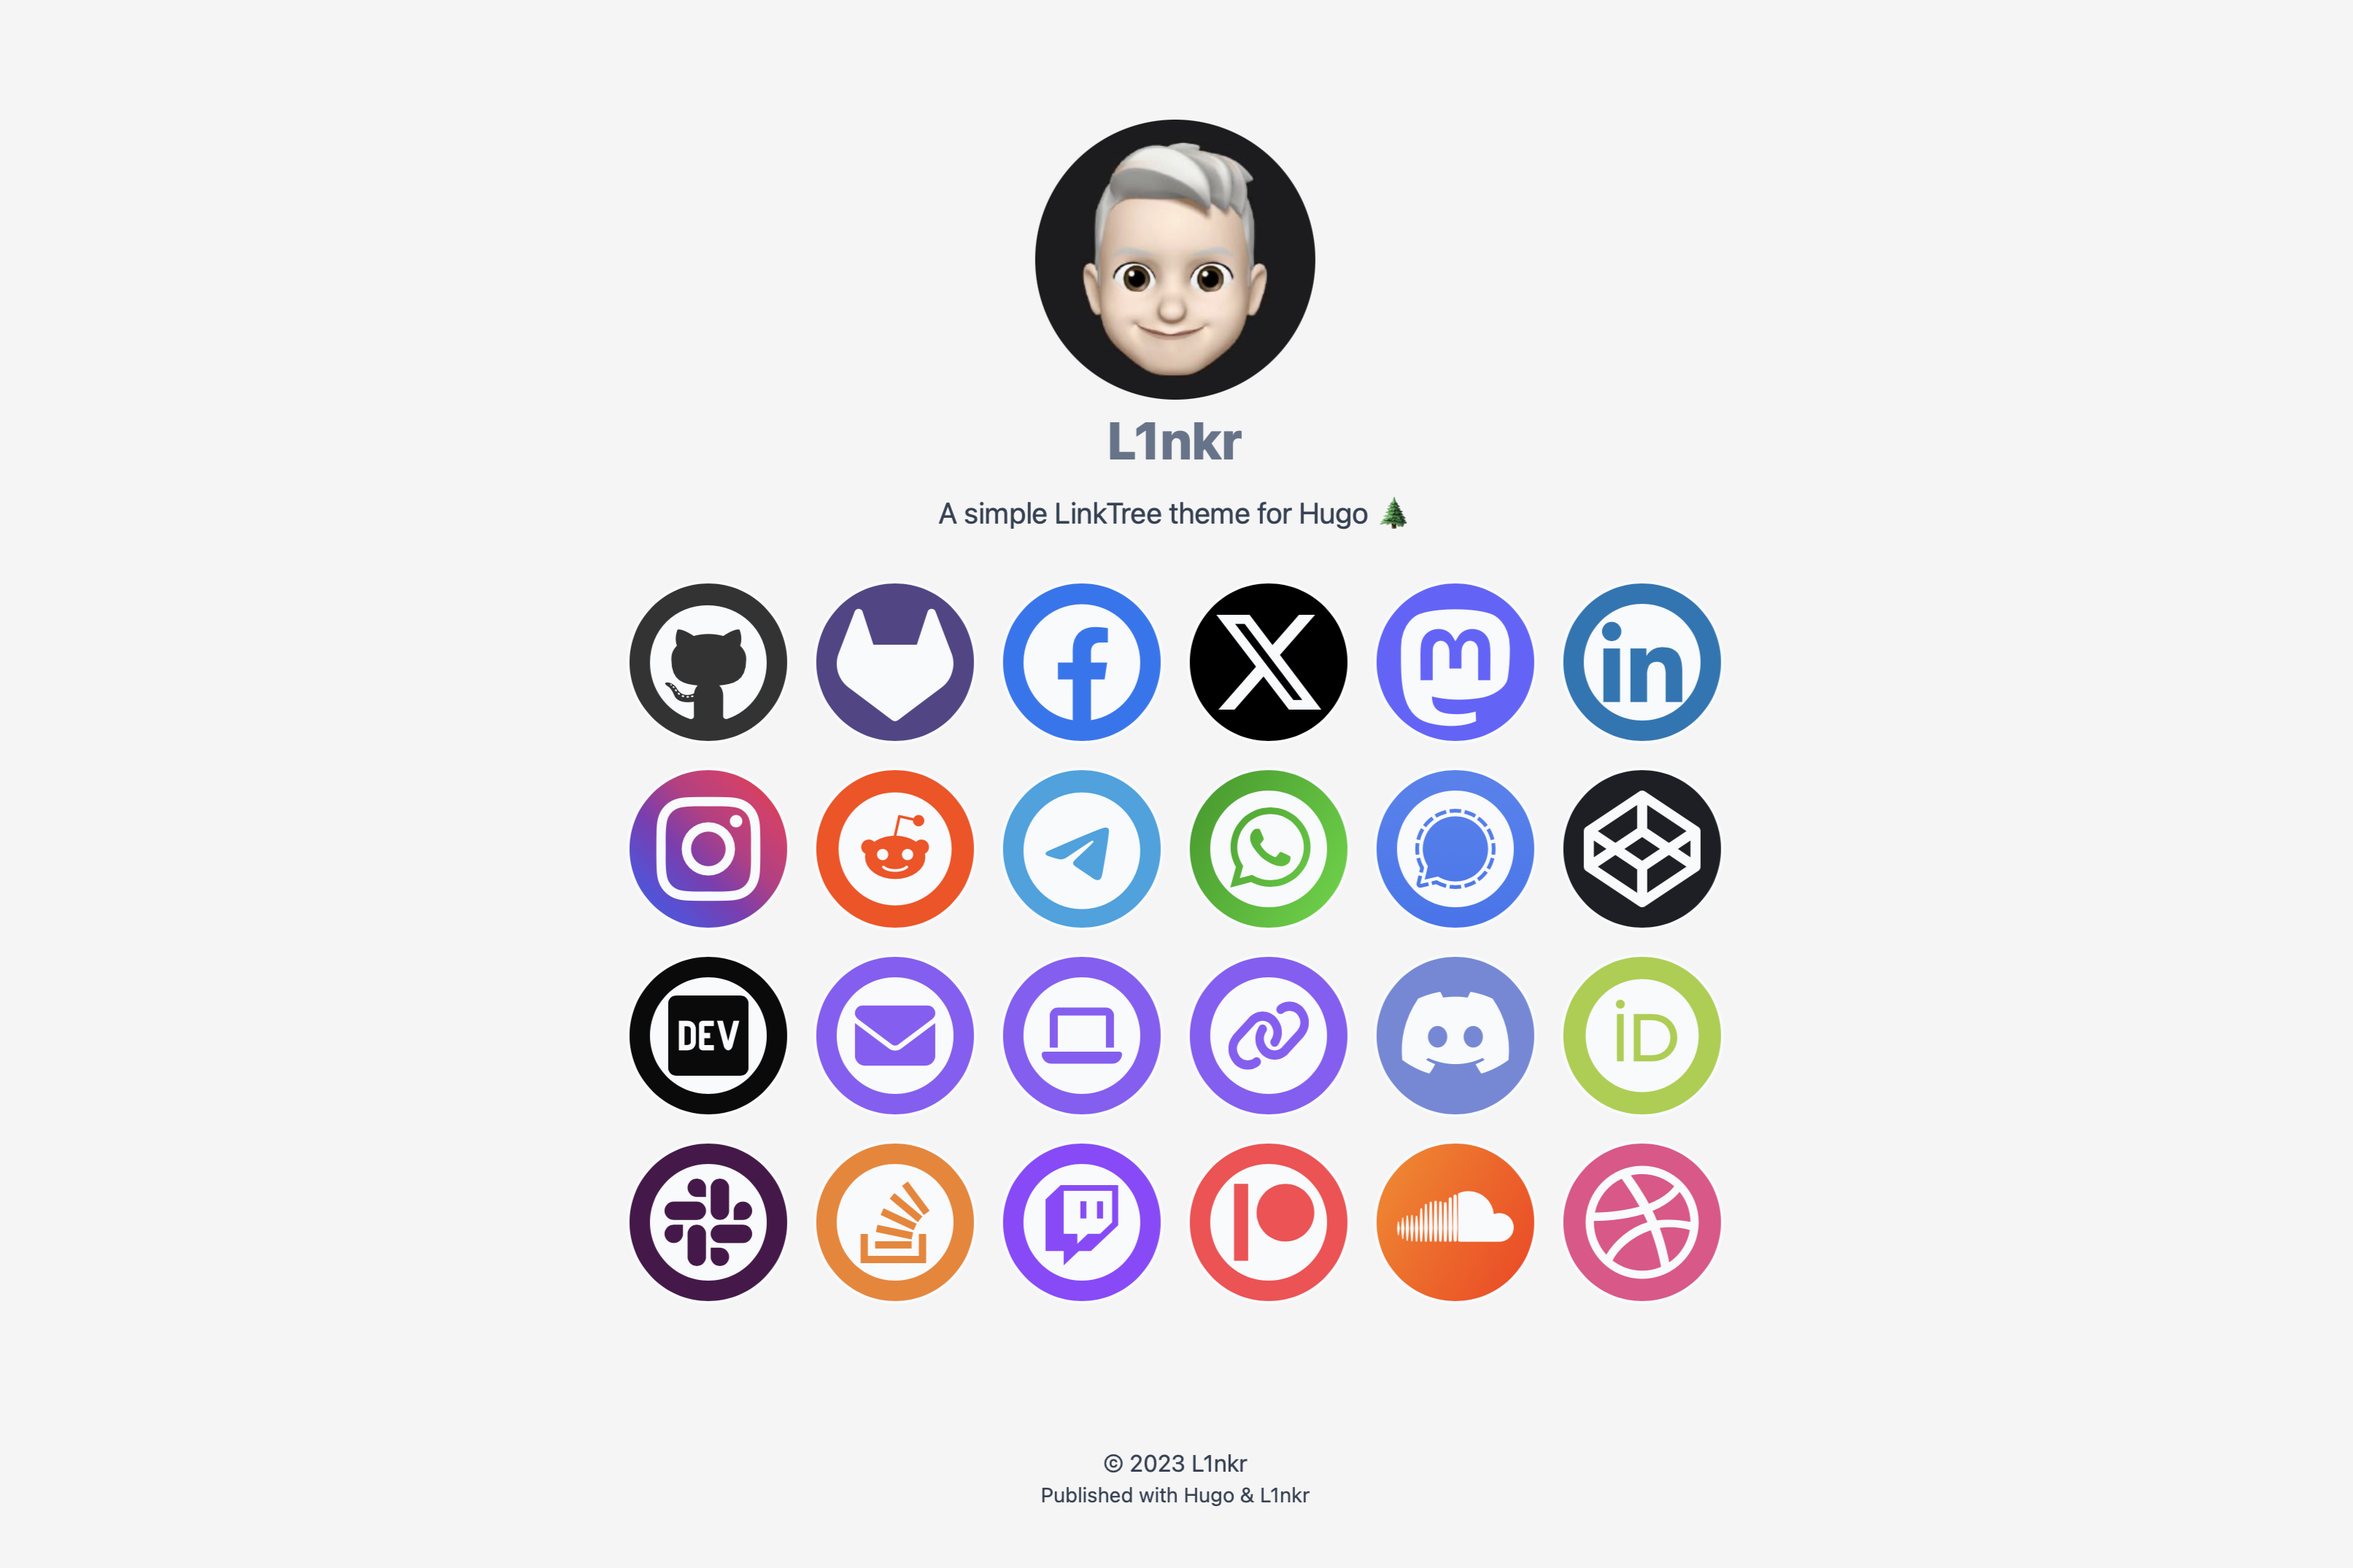
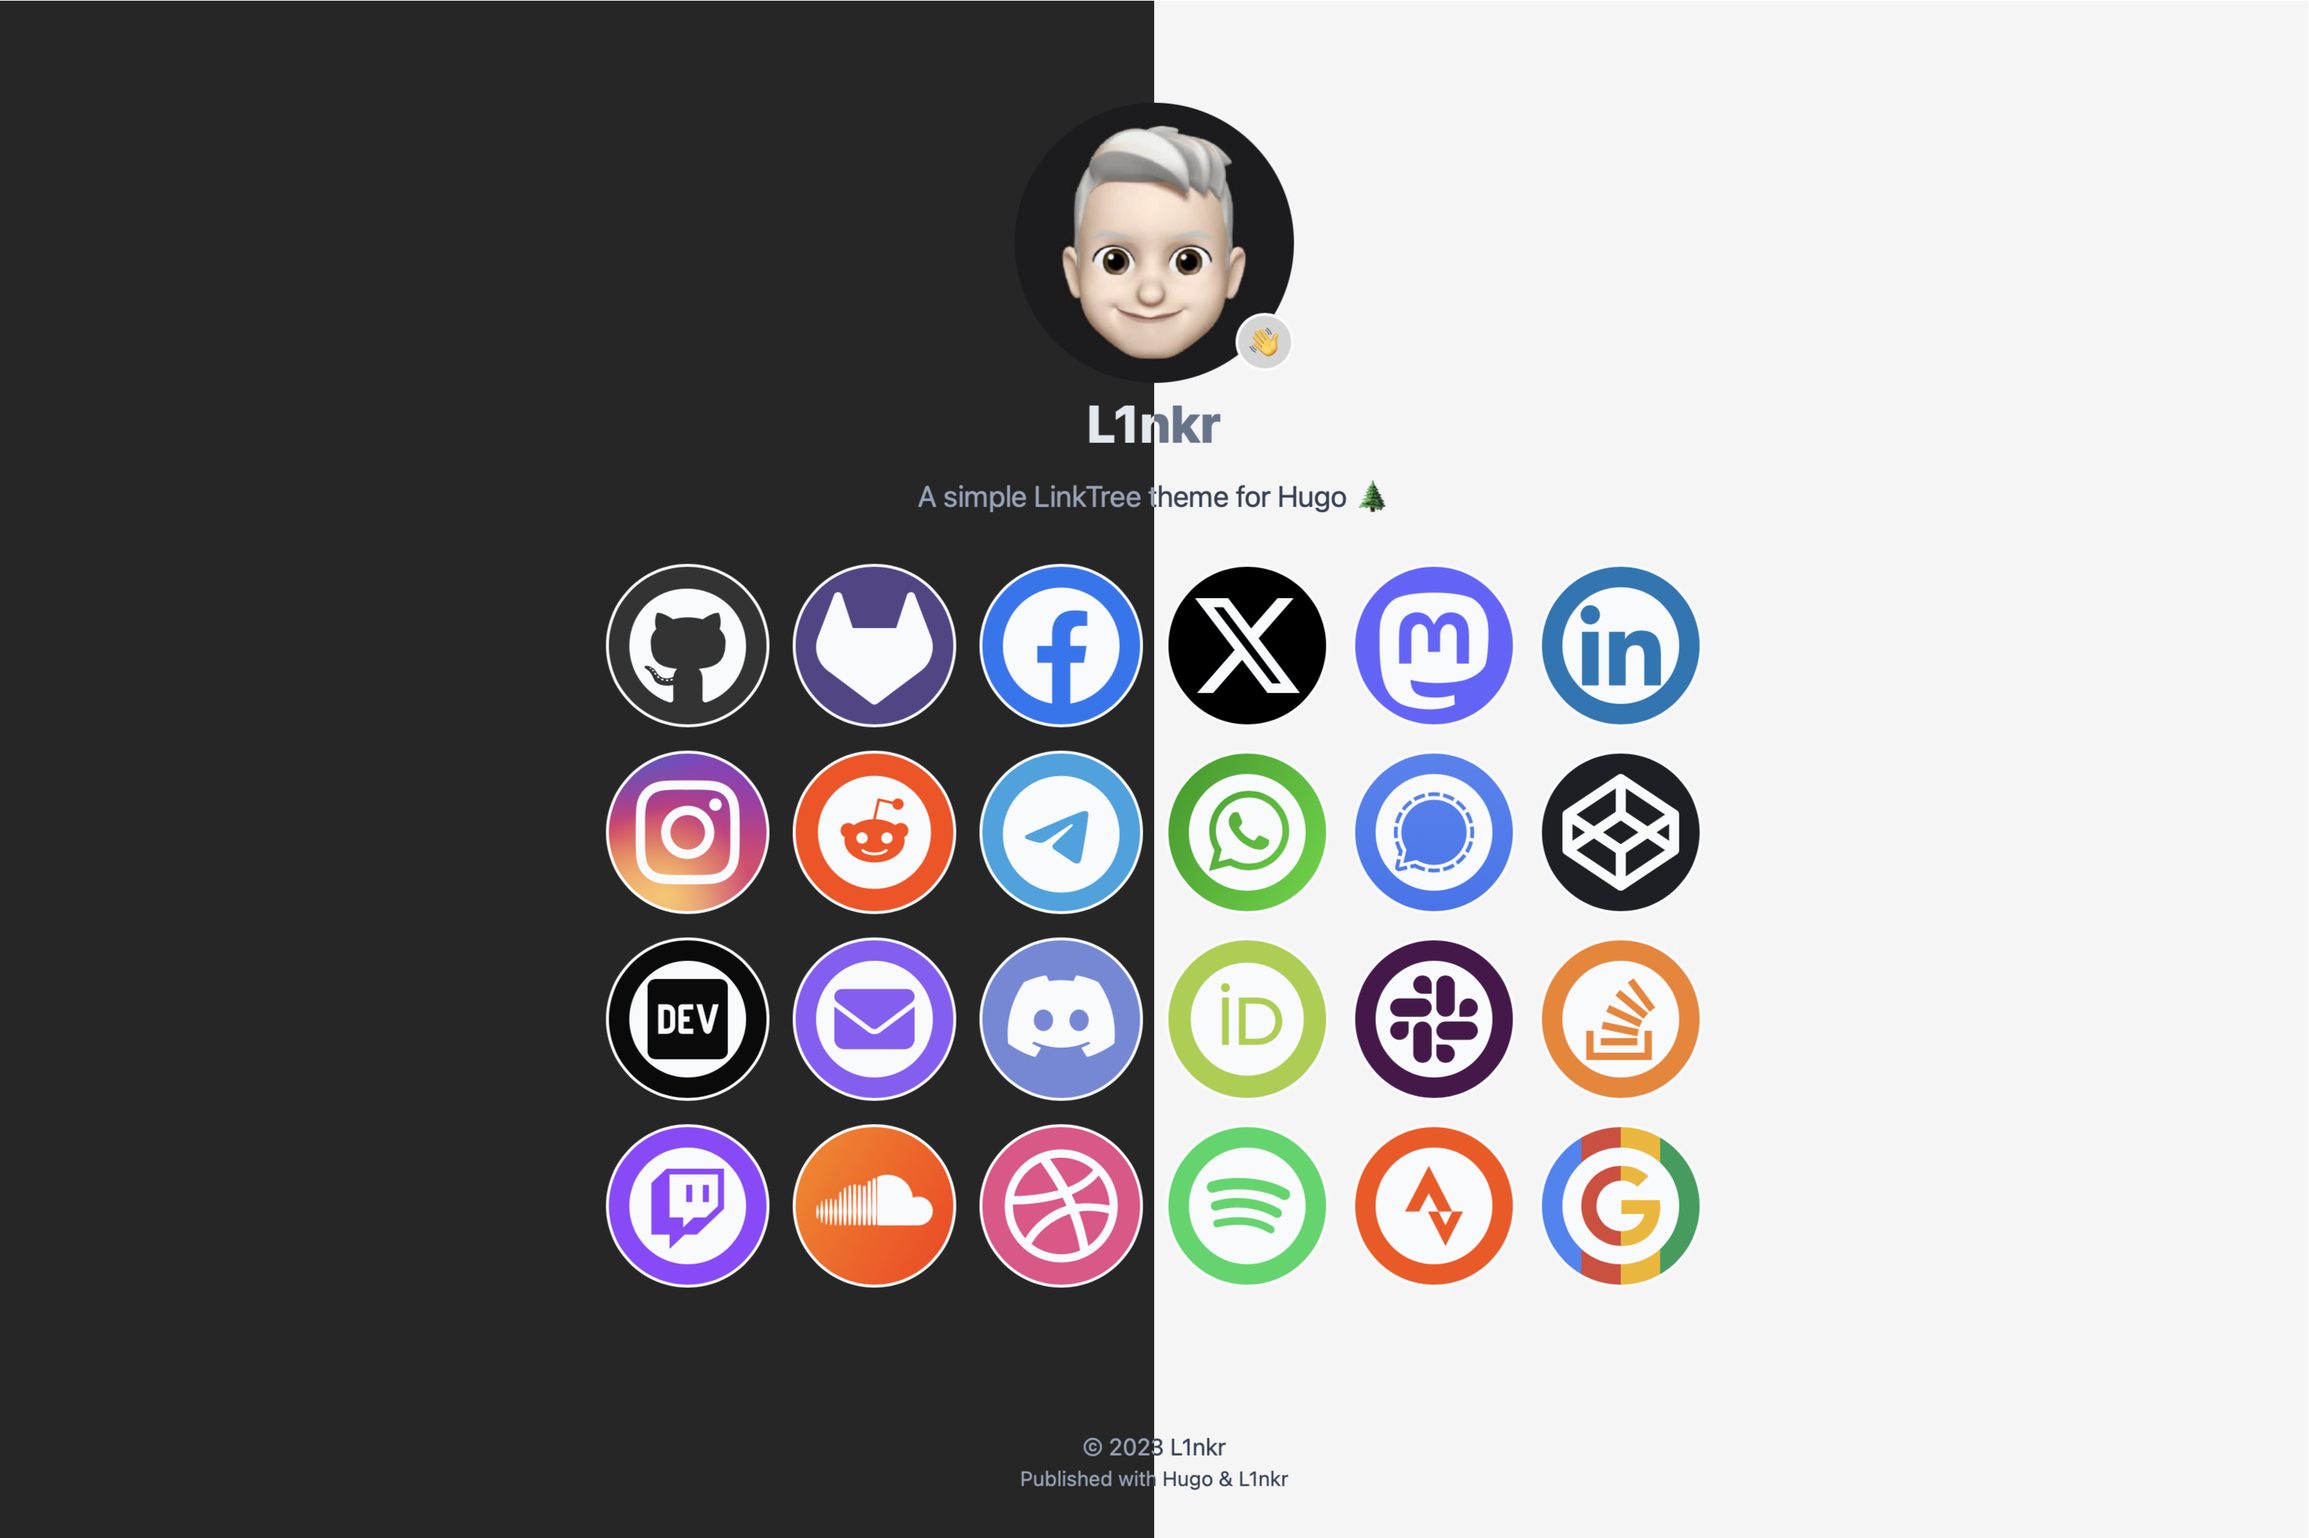
:camera_flash: Updating images for themes.gohugo.io

diff --git a/README.md b/README.md
@@ -1,5 +1,7 @@
 # L1nkr - Simple LinkTree Hugo Theme
-![L1nkr - Simple LinkTree Hugo Theme](https://raw.githubusercontent.com/chrede88/l1nkr/main/images/screenshot.png)
+<p align="center">
+  <img src="https://raw.githubusercontent.com/chrede88/l1nkr/main/images/screenshot.png" alt="L1nkr - Simple LinkTree Hugo Theme">
+</p>
 
 <p align="center">
   <img src="https://github.com/Chrede88/L1nkr/actions/workflows/testBuild.yml/badge.svg" alt="Main Branch Build">
@@ -64,7 +66,7 @@ author:
   name: "L1nkr"
   image: "author.jpeg"
   greeting: "A simple LinkTree theme for Hugo :evergreen_tree:"
-  icon: ":wave:"
+  icon: ":wave:" # outcomment (or remove) if you don't want to display the emoji
 
 ############################
 ## Links
@@ -109,8 +111,9 @@ Links are defined by the name (i.e. "github" or "facebook"). The names must matc
 | tumblr | twitch | untappd | website |
 | whatsapp | windows | x-twitter | youtube |
 
+
 ### Custom Link Icons
-Users can provide their own icons by placing a `.svg` image in `./assets/icons/` in their own repo. Creating folders when necessary. The image should be as square as possible for the best result.
+Users can provide their own icons by placing a `.svg` image in `./assets/icons/` in their own repo. Creating folders when necessary. The image should be as square as possible for the best result. Don't use spaces in the filename!
 The background color will be the tailwind color `bg-indigo-500` (#6366f1) unless another color is specified. This can be done by placing the following css snippet in `./assets/css/custom.css`:
 
 ```css
